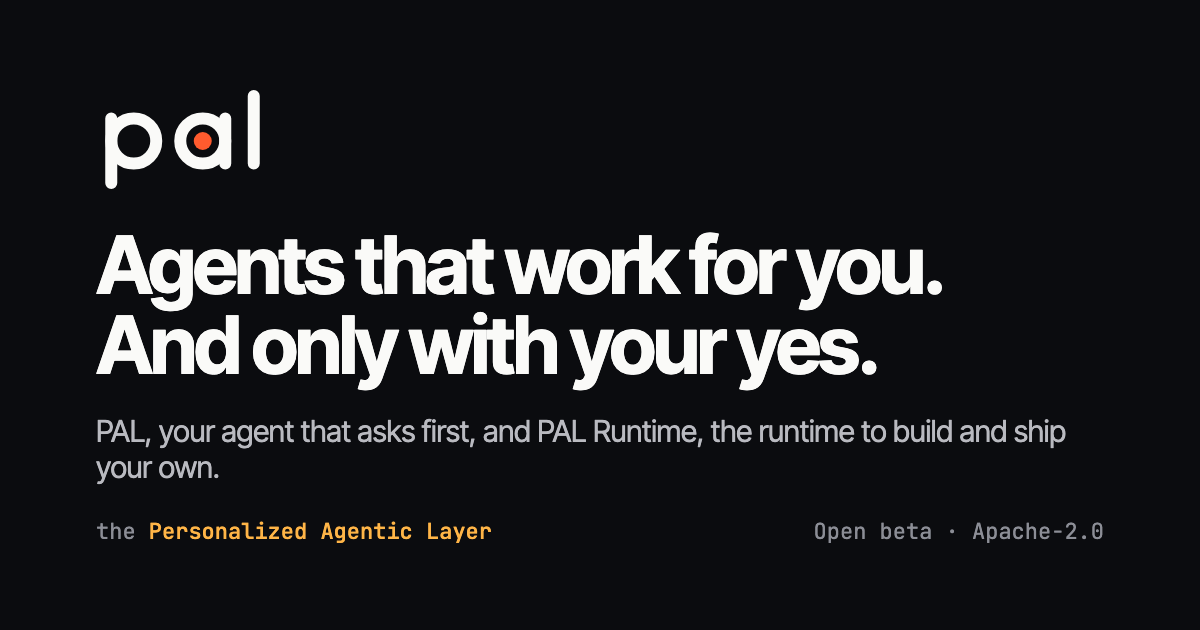
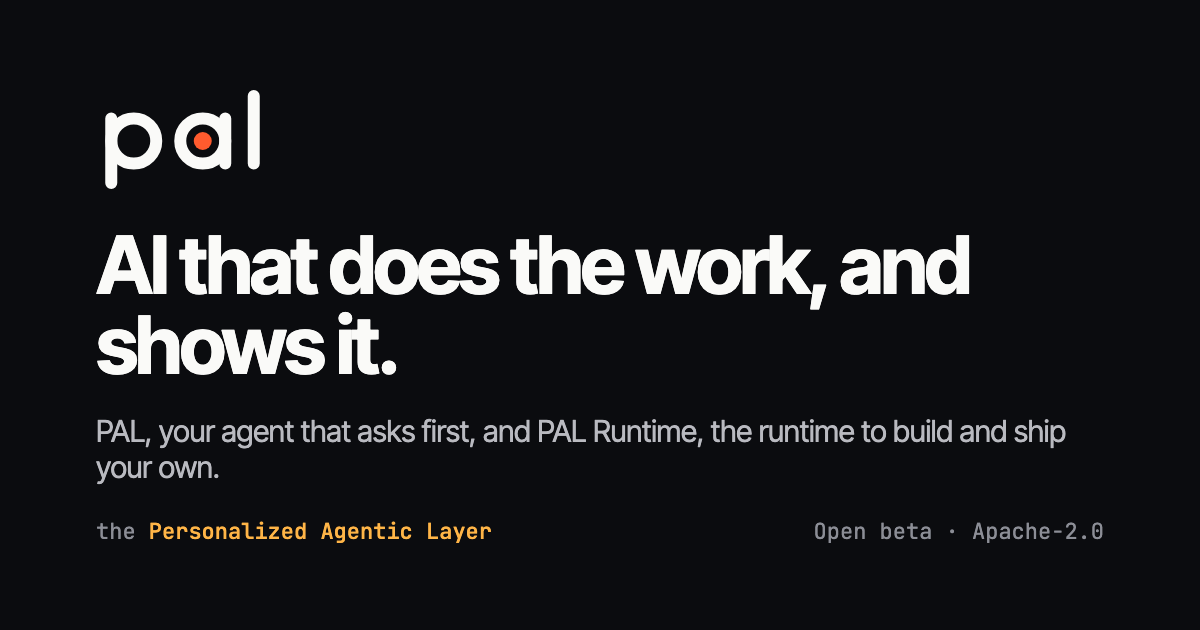
site: new taglines — 'AI that does the work, and shows it.' / Runtime 'Put agents in production. Keep the receipts.' / PAL 'Your messages, answered in your voice.'

Changed region(s): [[0.0617, 0.3619, 0.8325, 0.6333]]

diff --git a/docs/brand/build/og.html b/docs/brand/build/og.html
@@ -23,7 +23,7 @@
 <div class="url">Personalized Agentic Layer</div>
 <div class="wrap">
   <svg class="word" viewBox="0 -11 114 80"><defs><linearGradient id="g" x1="0" y1="0" x2="1" y2="1"><stop offset="0" stop-color="#ff7a3d"/><stop offset="1" stop-color="#e5207f"/></linearGradient></defs><g fill="none" stroke="#fafaf8" stroke-width="9" stroke-linecap="round"><path d="M4.5 13 V64 M81 13 V43 M100 -6 V34 A9 9 0 0 0 109 43"/><circle cx="19.5" cy="28" r="15"/><circle cx="66" cy="28" r="15"/></g><circle cx="19.5" cy="28" r="6.5" fill="url(#g)"/></svg>
-  <h1>Your pal for every moment.</h1>
+  <h1>AI that does the work, and shows it.</h1>
   <div class="row">
     <div class="chip"><span class="dot" style="background:linear-gradient(135deg,#ff7a3d,#e5207f)"></span><b>pal</b> lives in your messages</div>
     <div class="chip"><span class="dot" style="background:linear-gradient(135deg,#6c5cff,#14c8f0)"></span><b>PAL Runtime</b> runs your agents</div>

diff --git a/README.md b/README.md
@@ -7,10 +7,10 @@
   <img src="site/public/brand/logo-animated.svg" alt="PAL" width="168">
 </picture>
 
-<h3>Your pal for every moment.</h3>
+<h3>AI that does the work, and shows it.</h3>
 
 <p><b>PAL</b> lives in your iMessage and WhatsApp: it tells you what needs you, replies in your voice and holds anything risky for your yes.<br>
-<b>PAL Runtime</b> is the open-source layer it runs on, for the agents you build: they finish, stay contained, and stay yours.</p>
+<b>PAL Runtime</b> is the open-source layer it runs on, for the agents you build: put them in production and keep the receipts.</p>
 
 <p>
 <a href="https://github.com/dshakes/pal/actions/workflows/sdlc-e2e.yml"><img src="https://github.com/dshakes/pal/actions/workflows/sdlc-e2e.yml/badge.svg" alt="e2e"></a>

diff --git a/docs/brand/README.md b/docs/brand/README.md
@@ -166,8 +166,8 @@ Never coin "PAL Pay" or other PAL-plus-noun product names without a trademark
 check. The CLI, packages and env vars are spelled `pal` / `PAL_*`; write them
 as they are in code.
 
-Taglines: **Your pal for every moment.** · **PAL Runtime: agents that finish,
-stay contained, and stay yours.**
+Taglines: **AI that does the work, and shows it.** · **PAL Runtime: put agents in
+production. Keep the receipts.** · **PAL: your messages, answered in your voice.**
 
 ## Origin
 
